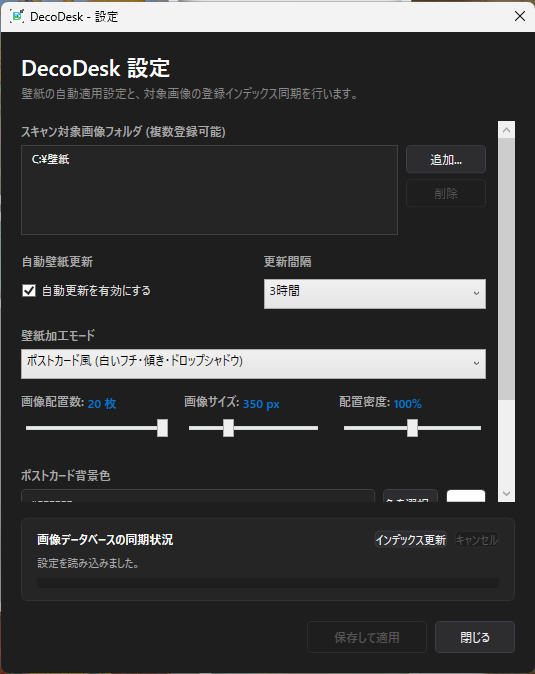
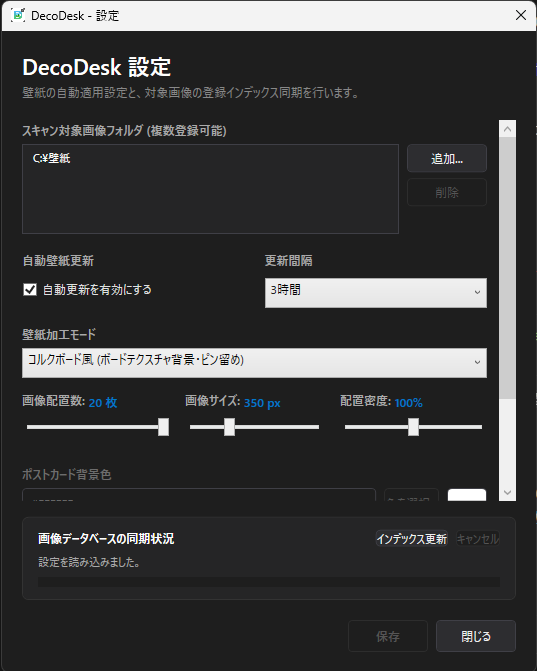
feat: 設定画面のボタン名を「保存」に変更
「保存して適用」というボタン名が実態と一致していなかった。このボタンは設定の
保存と次回分の壁紙の生成までを行い、デスクトップへの適用は行わない（適用は
次回の自動更新、または「今すぐ変更」）。「保存したのに壁紙が変わらない」という
誤解を招くため改名した。

- ラベルが短くなったため、ボタン幅を120から80に縮めて「閉じる」と揃えた。
- 保存完了時のメッセージも「設定を適用・保存しました。」から
  「設定を保存しました。」に修正した。
- READMEの初回セットアップ手順を更新した。v1.0.1でインデックス同期が
  自動化されたため「インデックス更新」を押す手順は不要になっており、
  あわせて削除した。「保存」が壁紙をその場では貼り替えないことも明記した。
- 設定画面のスクリーンショットを新しいラベルで撮り直した。
- バージョンを1.0.2に更新した。

diff --git a/src/DecoDesk/MainWindow.xaml b/src/DecoDesk/MainWindow.xaml
@@ -270,7 +270,7 @@
 
         <!-- 下部保存・閉じるボタン -->
         <StackPanel Grid.Row="3" Orientation="Horizontal" HorizontalAlignment="Right">
-            <Button Content="保存して適用" Command="{Binding SaveCommand}" IsEnabled="{Binding IsNotIndexing}" Style="{StaticResource AccentButton}" Width="120" Height="32" Margin="0,0,8,0" />
+            <Button Content="保存" Command="{Binding SaveCommand}" IsEnabled="{Binding IsNotIndexing}" Style="{StaticResource AccentButton}" Width="80" Height="32" Margin="0,0,8,0" />
             <Button Content="閉じる" Click="Close_Click" Width="80" Height="32" />
         </StackPanel>
     </Grid>

diff --git a/src/DecoDesk/ViewModels/MainWindowViewModel.cs b/src/DecoDesk/ViewModels/MainWindowViewModel.cs
@@ -573,7 +573,7 @@ public sealed class MainWindowViewModel : ViewModelBase
             else
             {
                 Logger.LogInformation("壁紙の見た目に影響する設定変更がなかったため、事前レンダリングの再作成をスキップしました。");
-                System.Windows.MessageBox.Show("設定を適用・保存しました。", "DecoDesk", MessageBoxButton.OK, MessageBoxImage.Information);
+                System.Windows.MessageBox.Show("設定を保存しました。", "DecoDesk", MessageBoxButton.OK, MessageBoxImage.Information);
                 RequestClose?.Invoke();
             }
         }

diff --git a/TASKS.md b/TASKS.md
@@ -190,7 +190,17 @@
       - 加工モードだけを変更して保存 → インデックス同期は走らず、壁紙の生成のみが行われる。
       - 「インデックス更新」を手動実行 → その後の「今すぐ変更」で古い画像が出ない。
       - ログに「画像インデックスの同期が完了しました。検出=...」が記録される。
-- [ ] G-8. 「保存して適用」ボタンのリネームを検討する。G-1 の取り下げにより、このボタンは保存と生成までを行い、デスクトップへの適用は行わない。名称と実態が一致していない。
+- [x] G-8. 「保存して適用」ボタンを「保存」にリネームする。→ 完了。G-1 の取り下げにより、このボタンは保存と生成までを行い、デスクトップへの適用は行わないため、名称と実態が一致していなかった。
+      - `MainWindow.xaml` のボタン `Content` を変更し、ラベルが短くなったため幅を 120 → 80 に縮めて「閉じる」と揃えた。
+      - 保存完了時のメッセージも「設定を適用・保存しました。」→「設定を保存しました。」に修正した。
+      - README の初回セットアップ手順を更新した。G-7 でインデックス同期が自動化されたため「インデックス更新」を押す手順は不要になっており、あわせて削除した。「保存」が壁紙をその場では貼り替えないことも明記した。
+      - **`doc/images/settings.png` は旧ラベルのまま。** 撮り直しが必要（G-9）。
+- [x] G-9. 設定画面のスクリーンショット `doc/images/settings.png` を撮り直す。→ 完了。ボタンが「保存」になった状態で再撮影。登録フォルダは `C:\壁紙` のみでユーザー名の露出なし。
+- [x] G-10. リポジトリを public に公開する。→ 公開前に git 履歴全体を走査した。
+      - `.env` 系ファイル、認証情報（password / token / api key / Bearer）、メールアドレス、個人フォルダ名（`Nextcloud` / `R-18` 等）はいずれも履歴に存在しない。
+      - `MEMO.md` / `2026-07-11.md` は一度もコミットされていない。
+      - 著作権が問題だった初版スクリーンショットも一度もコミットされていない（差し替え後が初コミット）。
+      - **Windows のユーザー名 `sefer` が過去のコミットに残存**（`ecedbe8` / `7225b1f` の `DecoDesk_zs52vh3a_wpftmp.csproj`、`7225b1f` / `e0092fc` の `PerformanceProfilerTests.cs`）。F-3 で現在のコードからは除去済みだが履歴には残る。認証情報ではなくローカルのユーザー名であり、履歴書き換え（全コミットハッシュの変更・タグ再作成・force push）のリスクに見合わないと判断し、**そのまま公開する方針を採用**した。
 - [x] G-6. v1.0.1 をリリースする。→ **https://github.com/anego/DecoDesk/releases/tag/v1.0.1**
       - コミットを3つに分割した（`b8f5d26` fix / `ae1fb34` docs / `06b72ea` chore）。
       - publish: 単一exe **78.25MB**、`ProductVersion` は `1.0.1+06b72ea...`（HEAD と一致）、pdb の混入なし。

diff --git a/README.md b/README.md
@@ -59,14 +59,18 @@
 
 1. タスクトレイアイコンを右クリックし、「設定」を開きます。
 2. 「スキャン対象画像フォルダ」に、壁紙に使いたい画像のあるフォルダを追加します。複数登録できます。
-3. **「インデックス更新」を実行します。** この処理で画像がデータベースに登録されます。完了するとタスクトレイに通知が表示されます。
-4. 壁紙加工モードや更新間隔を設定し、「保存して適用」を押します。
+3. 壁紙加工モードや更新間隔を設定し、「保存」を押します。
+4. 壁紙をすぐに見たい場合は、タスクトレイメニューから「今すぐ変更」を選びます。
 
 ![設定画面](doc/images/settings.png)
 
-> 「保存して適用」は設定を変更したときだけ有効になります。何も編集していない状態では、不要な壁紙の再生成が走らないようボタンが無効化されます。
+> 対象フォルダを変更して保存すると、画像データベースへの登録（インデックス同期）と壁紙の生成がバックグラウンドで自動的に実行されます。設定画面はすぐに閉じられ、完了するとタスクトレイに通知が届きます。画像の枚数によっては数分かかることがあります。
+>
+> 「インデックス更新」ボタンは、この自動同期を手動で実行したいときに使います。通常の運用では押す必要はありません。
 
-> 対象フォルダや加工設定を変更して保存した場合、壁紙の再生成はバックグラウンドで実行されます。設定画面はすぐに閉じられ、完了時にタスクトレイへ通知が届きます。
+> **「保存」は壁紙をその場では貼り替えません。** 生成した壁紙が画面に出るのは、次の自動更新のタイミングか、「今すぐ変更」を選んだときです。作業中に不意に壁紙が切り替わらないようにするための挙動です。
+
+> 「保存」は設定を変更したときだけ有効になります。何も編集していない状態では、不要な壁紙の再生成が走らないようボタンが無効化されます。
 
 ### ゲームプレイ中の処理負荷を避ける
 

diff --git a/CHANGELOG.md b/CHANGELOG.md
@@ -3,6 +3,15 @@
 このプロジェクトの主な変更点を記録します。
 バージョン番号は [セマンティック バージョニング](https://semver.org/lang/ja/) に従います。
 
+## [1.0.2] - 2026-11-12
+
+### 変更
+
+- 設定画面のボタン名を「保存して適用」から「保存」に変更した。このボタンは設定の保存と次回分の壁紙の生成までを行い、デスクトップへの適用は行わない（適用は次回の自動更新、または「今すぐ変更」）。名称と実態が一致しておらず、「保存したのに壁紙が変わらない」という誤解を招くため。
+- 保存完了時のメッセージを「設定を適用・保存しました。」から「設定を保存しました。」に変更した。
+- README の初回セットアップ手順を、インデックス同期の自動化（v1.0.1）にあわせて更新した。「インデックス更新」を手動で実行する手順を削除し、「保存」が壁紙をその場では貼り替えないことを明記した。
+- README のスクリーンショットを最新の画面に差し替えた。
+
 ## [1.0.1] - 2026-11-12
 
 ### 修正
